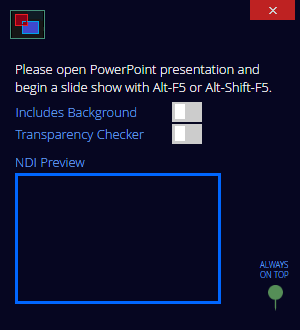
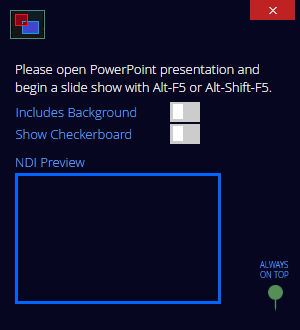
[FIX] Enable always on top by default

Changed region(s): [[0.03, 0.3939, 0.48, 0.4242], [0.54, 0.303, 0.63, 0.4242], [0.66, 0.303, 0.69, 0.4242]]

diff --git a/frontend/client_control.js b/frontend/client_control.js
@@ -34,13 +34,13 @@ sub Main()
 		Err.Clear
 		Set objPPT = CreateObject("PowerPoint.Application")
 		If Err.Number = 0 Then
+			Err.Clear
 			Set ap = objPPT.ActivePresentation
 			If Err.Number = 0 Then
 				objPPT.DisplayAlerts = False
 				Err.Clear
 				curPos = ap.SlideShowWindow.View.CurrentShowPosition
 				If Err.Number = 0 Then
-					Proc()
 					If ap.SlideShowWindow.View.State = -1 Then
 					ElseIf ap.SlideShowWindow.View.State = 3 Then
 						Wscript.Echo "PPTNDI: Black"
@@ -61,6 +61,8 @@ sub Main()
 				Else
 					Wscript.StdIn.ReadLine()
 				End If
+			Else
+				Wscript.Sleep(500)
 			End If
 		End If
 	Loop
@@ -108,13 +110,13 @@ sub Main()
 		Err.Clear
 		Set objPPT = CreateObject("PowerPoint.Application")
 		If Err.Number = 0 Then
+			Err.Clear
 			Set ap = objPPT.ActivePresentation
 			If Err.Number = 0 Then
 				objPPT.DisplayAlerts = False
 				Err.Clear
 				curPos = ap.SlideShowWindow.View.CurrentShowPosition
 				If Err.Number = 0 Then
-					Proc()
 					If ap.SlideShowWindow.View.State = -1 Then
 					ElseIf ap.SlideShowWindow.View.State = 3 Then
 						Wscript.Echo "PPTNDI: Black"
@@ -135,6 +137,8 @@ sub Main()
 				Else
 					Wscript.StdIn.ReadLine()
 				End If
+			Else
+				Wscript.Sleep(500)
 			End If
 		End If
 	Loop
@@ -149,7 +153,7 @@ $(document).ready(function() {
 	const ioHook = require('iohook');
 	const binPath = './bin/PPTNDI.EXE';
 	let tmpDir = null;
-	let pin = false;
+	let pin = true;
 	let child;
 	let res;
 
@@ -229,7 +233,12 @@ $(document).ready(function() {
 			alert('Failed to parse the presentation!');
 			return;
 		}
-		
+
+		// Enable Always On Top by default
+		ipc.send('remote', "onTop");
+		$("#pin").attr("src", "pin_green.png");
+		pin = true;
+
 		ioHook.on('keydown', event => {
 			res.stdin.write("\n");
 		});

diff --git a/frontend/index.html b/frontend/index.html
@@ -41,7 +41,7 @@
 		  </td>
 		</tr>
 		<tr>
-		  <td width="140px">Transparency Checker</td>
+		  <td width="140px">Show Checkerboard</td>
 		  <td>
 			<label class="switch">
 			<input type="checkbox" id="trans_checker" class="checkbox" name="trans_checker" value="trans_checker">

diff --git a/frontend/control.html b/frontend/control.html
@@ -24,7 +24,7 @@
 	</td>
 	</tr>
     <tr>
-      <td>&nbsp;Transparency Checker</td>
+      <td>&nbsp;Show Checkerboard</td>
       <td>
 		<label class="switch">
 		<input type="checkbox" id="trans_checker" name="trans_checker" value="trans_checker">
